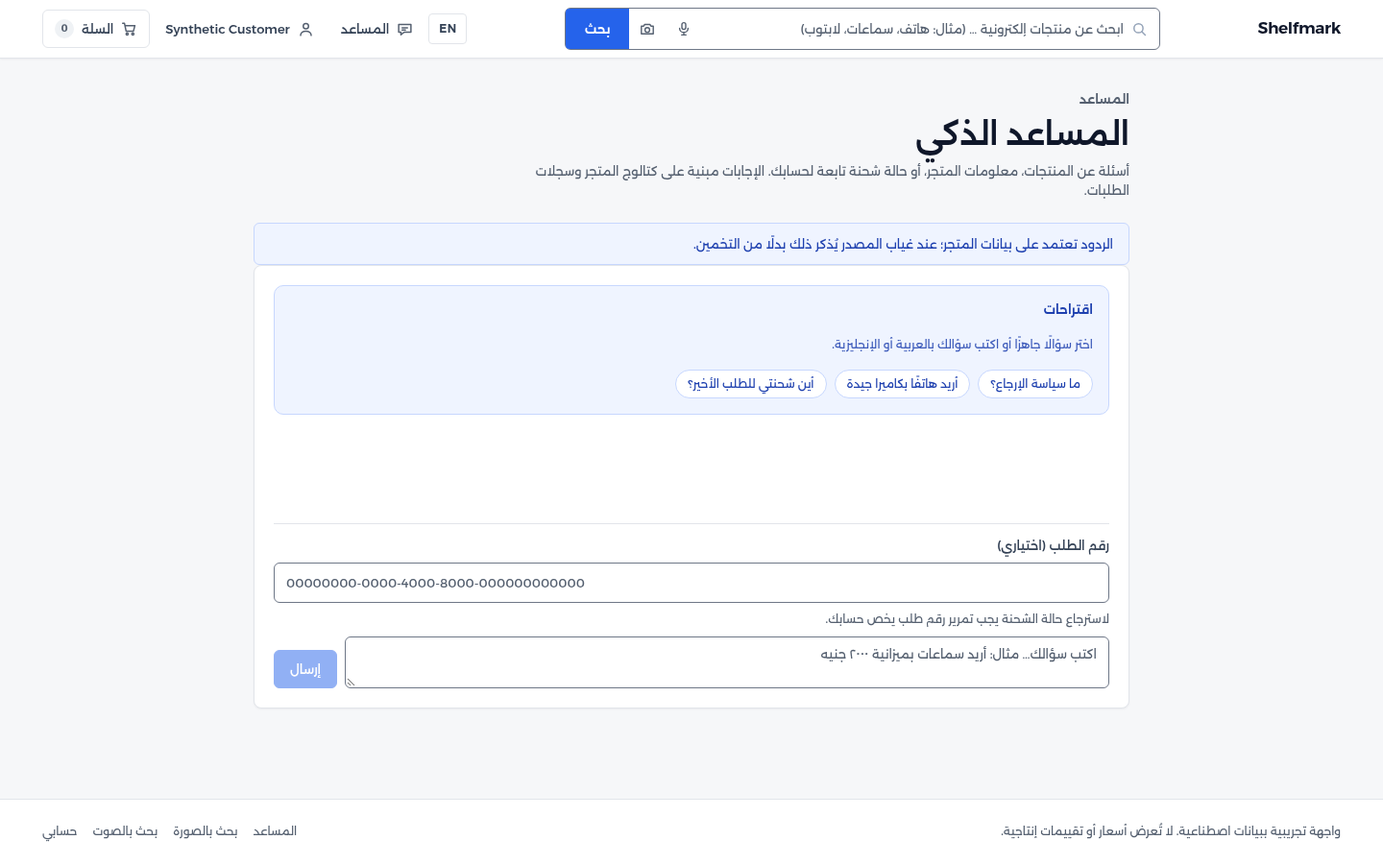
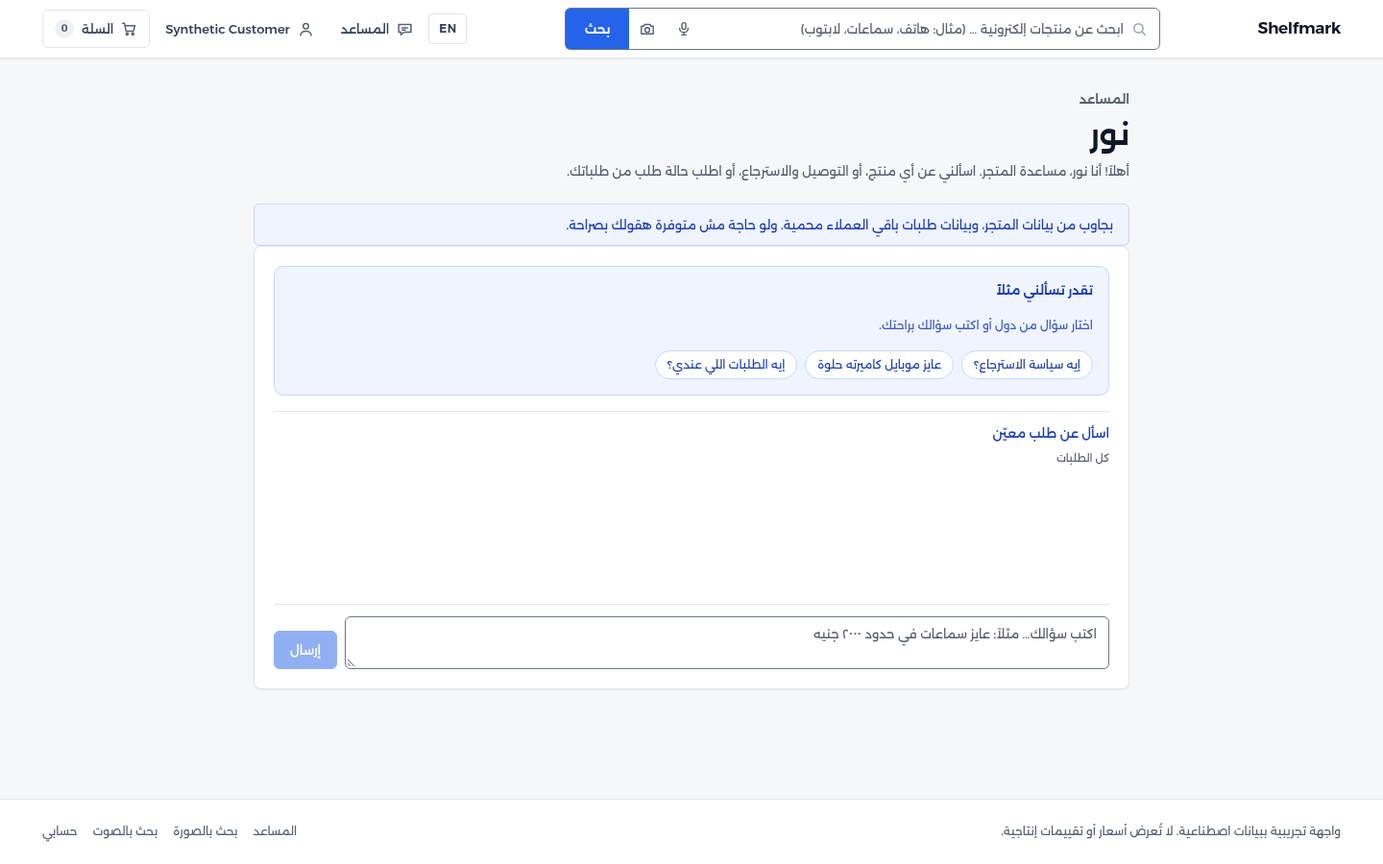
Recapture the deck screens and stop claiming the provider is unproven
Five documents still said the AI provider had never been exercised live. The
assistant now runs against OpenRouter with deepseek/deepseek-v4.1-flash, and the
surfaces around it changed, so the evidence and the prose are refreshed together.

- Recapture all 31 deck screens from a freshly seeded isolated stack (0 drift,
  30.8 s, the same two intentional console errors). The runner needed no
  selector changes; 25 screens differ, the 6 unchanged ones render no catalog
  card or assistant surface.
- Record the run in the rehearsal log, including the MongoDB pin moving to 8.2
  and the isolated-stack reproduction steps.
- Reconcile README, progress, the test report, the deck and the user manual:
  the assistant is proven live; voice transcription is still injected-provider
  only because no real speech sample has been run through it.
- Document the new behaviour that made it into this cycle: conversation memory,
  order attachment, seeded tracking, and the catalog specs.
- Describe OpenRouter as the default provider in the setup guide, matching the
  `.env.example` defaults.

diff --git a/docs/presentation/deck.html b/docs/presentation/deck.html
@@ -572,7 +572,7 @@
     <div class="cols">
       <div>
         <ul>
-          <li><strong>No live AI provider proof.</strong> The assistant and voice surfaces are verified with an injected provider; no <code>OPENAI_API_KEY</code> was available, so both return a typed 503 by design.</li>
+          <li><strong>AI provider proof is partial.</strong> The assistant is proven live through OpenRouter with <code>deepseek/deepseek-v4.1-flash</code> — grounded answers, own-order lookup, conversation memory. Voice transcription is still verified with an injected provider only: no real speech sample has been run through it.</li>
           <li><strong>Synthetic data only.</strong> Every model, dashboard, and evaluation uses synthetic or sandbox records. Nothing here is a commercial claim.</li>
           <li><strong>No cloud deployment.</strong> Docker packaging and the deployment runbook are verified; the AWS placement needs account access and has not been executed.</li>
         </ul>

diff --git a/docs/presentation/rehearsal.md b/docs/presentation/rehearsal.md
@@ -1,19 +1,26 @@
 # Demo rehearsal log
 
-Date: 2026-11-01 (re-run after the "Two instruments" UI overhaul)
+Date: 2026-11-01 (second re-run: after the assistant, catalog-spec and shipment work)
 Script: [`docs/demo-script.md`](../demo-script.md)
 Runner: `tests/accessibility/rehearsal.mjs` (Playwright + Chromium, drives the real UI)
 
-This run reconciles the runner with the overhauled markup (defects 16–17) and
-recaptures every deck screen from the current interface. The 2026-10-30 numbers
-and the defects that run found are preserved below in the drift history.
+This run recaptures every deck screen after the assistant gained conversation
+memory, order attachment and its own personality; after the catalog fixtures
+gained camera/OS/battery specs; and after the demo seed gained real shipment
+rows, so the order page now shows a tracking timeline. The runner needed no
+selector changes (0 drift): the markup it targets was untouched.
+
+Seed-baseline counts are unchanged from the previous run — 13 products, 12
+reorders, 38 classified customers, 226 browsing events, 15 purchases — so the
+screens are comparable rather than merely fresh. Earlier runs and the defects
+they found are preserved below in the drift history.
 
 ## Environment
 
 | Item | Value |
 |---|---|
 | Stack | Isolated Docker Compose project `demo-rehearsal` (fresh volumes, synthetic seed applied) |
-| API | PostgreSQL 18.6 + MongoDB 8.0.34, container image `services/api` |
+| API | PostgreSQL 18.6 + MongoDB 8.2 (the pinned version; earlier runs measured 8.0.34), container image `services/api` |
 | Storefront | Next.js 16.4.3 production build, pointed at the isolated API |
 | Identities | Demo accounts from the seed: `customer@example.invalid` / `demo-customer-1`, `operator@example.invalid` / `demo-operator-1` (DEC-017) |
 | Reset | `docker compose … down -v && up -d` re-seeds the stack between attempts |
@@ -23,40 +30,43 @@ Each attempt starts from a re-seeded stack, so seed-baseline counts (12 reorders
 accumulated. New registrations would raise the segmentation baseline, so the
 demo stays on the seeded accounts.
 
-The 2026-11-01 run used the same logical stack on a host where the Docker bridge
-network is unavailable: PostgreSQL and MongoDB ran as host-network containers,
-the API and the production storefront as host processes. The application is
-identical; only the process/network placement differs.
+The first 2026-11-01 run used this same logical stack on a host where the Docker
+bridge network was unavailable: PostgreSQL and MongoDB ran as host-network
+containers, the API and the production storefront as host processes. The
+application is identical; only the process/network placement differs. This
+re-run used the ordinary isolated compose project. The API container loads the
+repo-root `.env`, so the assistant steps run against the live provider
+(OpenRouter + `deepseek/deepseek-v4.1-flash`).
 
 ## Result
 
-**0 drift, 31 captured screens, 26.4 s of automated interaction** (a narrated
+**0 drift, 31 captured screens, 30.8 s of automated interaction** (a narrated
 presentation of the same script runs about 12 minutes).
 
 | Step | Seconds | Observed |
 |---|---|---|
-| 0. Demo sign-in — ID-01 | 1.3 | Customer signed in at `/login` → `/account`; operator at `/backoffice/login` → `/backoffice`; both sessions present at once |
-| 0b. Password rotation — COM-10 | 1.0 | Changed with the current password; the old value then returned 401, the new one 200. The seeded value was restored so later steps keep working |
-| 0c. Saved addresses — COM-12 | 3.0 | Created, promoted to default through the edit form, then deleted; the first address was default without being asked |
-| 1. Storefront discovery — COM-01, SF-03 | 0.9 | 13 products at page size 24; Phones + `storage 128 GB` narrowed the grid and the facets |
-| 1b. Image search — SF-03 | 0.8 | With the Phones filter, X1 Phone ranked first; a text file renamed `.png` was rejected with the reason |
-| 1c. Voice search — SF-03 | 0.4 | Microphone denial state shown, with the text-search fallback |
+| 0. Demo sign-in — ID-01 | 3.1 | Customer signed in at `/login` → `/account`; operator at `/backoffice/login` → `/backoffice`; both sessions present at once |
+| 0b. Password rotation — COM-10 | 1.4 | Changed with the current password; the old value then returned 401, the new one 200. The seeded value was restored so later steps keep working |
+| 0c. Saved addresses — COM-12 | 3.2 | Created, promoted to default through the edit form, then deleted; the first address was default without being asked |
+| 1. Storefront discovery — COM-01, SF-03 | 1.2 | 13 products at page size 24; Phones + `storage 128 GB` narrowed the grid and the facets |
+| 1b. Image search — SF-03 | 0.9 | With the Phones filter, X1 Phone ranked first; a text file renamed `.png` was rejected with the reason |
+| 1c. Voice search — SF-03 | 0.5 | Microphone denial state shown, with the text-search fallback |
 | 2. Recommendations — SF-01 | 0.4 | `strategy: hybrid`, 226 browsing events, 15 purchased items, no seen item returned |
-| 3a. Cart + safe checkout — COM-02/03/04 | 1.0 | Order confirmed, shipment created, price snapshot 8,900 EGP |
-| 3b. High-risk checkout — BO-04 | 0.7 | Order in review, shipment correctly absent |
+| 3a. Cart + safe checkout — COM-02/03/04 | 1.2 | Order confirmed, shipment created, price snapshot 8,900 EGP |
+| 3b. High-risk checkout — BO-04 | 0.8 | Order in review, shipment correctly absent |
 | 3c. Risk review allow — BO-04 | 0.9 | Operator allow confirmed the order and created the shipment |
-| 3d. Assessment failure — BO-04 | 0.6 | `assessment_failed` routed to review, no completion |
+| 3d. Assessment failure — BO-04 | 0.8 | `assessment_failed` routed to review, no completion |
 | 3e. Model card — BO-04 | 0.3 | Threshold 0.699, recall 83.3%, FPR 7.8%, limitations listed |
-| 3f. Buy again — COM-13 | 0.3 | Reorder refilled the empty cart at the **current** price, not the checkout snapshot |
-| 3g. Operator lifecycle — COM-09 | 7.0 | `ready` → `in_transit` moved the order to `shipped`; a 100 EGP partial refund left the subtotal unchanged and appeared in the adjustment history with the operator's identity |
-| 4. Predictive inventory — BO-01 | 2.6 | 13 forecasts, 12 new reorders, 0 reused; the rerun created 0 |
-| 5a. Dynamic pricing run — BO-02 | 1.2 | 12 prices updated, 1 stale input, 0 blocked |
+| 3f. Buy again — COM-13 | 0.5 | Reorder refilled the empty cart at the **current** price, not the checkout snapshot |
+| 3g. Operator lifecycle — COM-09 | 7.2 | `ready` → `in_transit` moved the order to `shipped`; a 100 EGP partial refund left the subtotal unchanged and appeared in the adjustment history with the operator's identity |
+| 4. Predictive inventory — BO-01 | 2.9 | 13 forecasts, 12 new reorders, 0 reused; the rerun created 0 |
+| 5a. Dynamic pricing run — BO-02 | 0.5 | 12 prices updated, 1 stale input, 0 blocked |
 | 5b. Price propagation + snapshot — BO-02 | 0.6 | Storefront showed 10,039.93; the earlier order still showed 8,900 |
-| 5c. Observation import + bounded rerun — BO-02 | 0.7 | 10,039.93 → 12,047.91 (+19.98%, inside the ±20% cap) |
-| 6. RFM segmentation — BO-03 | 0.7 | 38 classified, 2 without history, 6 segments, CSV export matched the filtered group |
+| 5c. Observation import + bounded rerun — BO-02 | 0.9 | 10,039.93 → 12,047.91 (+19.98%, inside the ±20% cap) |
+| 6. RFM segmentation — BO-03 | 0.8 | 38 classified, 2 without history, 6 segments, CSV export matched the filtered group |
 | 7. BI dashboards — BI-01 | 1.0 | Date/category filters recomputed; both reconciliation checks matched |
-| 8. English LTR parity | 0.7 | `lang="en" dir="ltr"` with the same capabilities and both session cookies |
-| 9. Failure states | 0.3 | Unknown product returns HTTP 404; the assistant shows its provider state |
+| 8. English LTR parity | 1.2 | `lang="en" dir="ltr"` with the same capabilities and both session cookies |
+| 9. Failure states | 0.5 | Unknown product returns HTTP 404; the assistant page renders its live chat, suggestion chips and order picker |
 | 10. Evidence check | 0.0 | Inventory and model evidence persisted and readable |
 
 Browser console during the final run: exactly two errors, both intentional — the
@@ -130,7 +140,8 @@ denial, product detail with the exhausted recommendation state, cart, checkout,
 confirmed order, order in review, risk queue, model card, inventory run, pricing
 run, storefront price after repricing, order price snapshot, observation import,
 pricing after import, segmentation run and filtered segment, analytics (Arabic
-and English), unknown product, the assistant surface, the password-change
+and English), unknown product, the live assistant surface (chat, suggestion
+chips and order picker), the password-change
 confirmation, the address book, buy-again, and the operator order detail with the
 refund in its adjustment history.
 
@@ -148,5 +159,15 @@ npm run verify-deck     # checks the deck layout at 1440 / 960 / 700
 `rehearse.mjs` needs `DEMO_UI` and `DEMO_API` if the stack is not on the default
 ports. Point `DEMO_SHOTS` at a scratch directory first: the runner overwrites the
 committed assets, so compare the new captures before copying them in. The run
-recorded above used an isolated compose project seeded by the migration runner,
-with the API on 18040 and the storefront on 3100.
+recorded above used an isolated compose project (`-p demo-rehearsal`) seeded by
+the migration runner, published on the default ports 3000 and 8000, with the
+repo-root `.env` supplying the live provider key. To reproduce it without
+touching your own stack, stop it, then bring the isolated one up:
+
+```bash
+docker compose -f infra/compose.yaml down
+docker compose -p demo-rehearsal -f infra/compose.yaml up -d --build
+DEMO_UI=http://127.0.0.1:3000 DEMO_API=http://127.0.0.1:8000 npm run rehearse
+docker compose -p demo-rehearsal -f infra/compose.yaml down -v
+docker compose -f infra/compose.yaml up -d
+```

diff --git a/docs/progress.md b/docs/progress.md
@@ -16,13 +16,13 @@ Last updated: 2026-11-01
 | Identity and capability boundaries | Verified for the demo harness (DEC-017) | Argon2id credentials, database-backed revocable sessions, and independent customer/operator cookies replace the fixed server-side bearer identities; customer ownership and `risk:review` scope remain enforced, and the legacy bearer path stays available for scripts. Self-service password change (COM-10) requires the current password and ends every other session of the principal while keeping the caller signed in. Production identity provider selection remains a deployment choice. |
 | Cart and retry-safe checkout | Verified | Exact EGP totals, current stock checks, immutable item snapshots, customer-scoped idempotency, and inventory consumption. |
 | Pre-completion risk flow | Verified integration; model pending | Safe, high-risk, and assessment-failure sandbox paths persist assessment before confirmation; review decisions are scoped and audited. |
-| Owned orders and shipment simulator | Verified | Customer isolation returns 404; shipments exist only after confirmation and provide bilingual events. |
+| Owned orders and shipment simulator | Verified | Customer isolation returns 404; shipments exist only from confirmation onward and provide bilingual events. The demo fixtures seed one deterministic shipment per fulfilled order (`database/relational/seeds/0002_shipment_demo.sql`), so the order timeline and the assistant's tracking answers carry real event history instead of an empty state. |
 | Browsing event capture | Verified | Authenticated, idempotent event ingestion uses stable customer/session/product IDs and provenance. |
 | SF-01 training pipeline | Verified on synthetic data | Collaborative and TF-IDF content components use browsing and purchase signals; fixed holdout evaluation records provenance and limitations. |
 | SF-01 API and evidence | Verified backend and storefront | Authenticated hybrid ranking, seen-item exclusion, popularity cold start, model/evaluation registration, and ranked-run persistence pass live integration. The trained artifact covers four products and the seeded customer has seen all four, so the product rail shows an explicit exhausted state rather than inventing a fallback. |
-| SF-02 grounded assistant | Verified orchestration and storefront; live provider pending | Bilingual FAQ, full composed catalog, and owned-shipment context feed the OpenAI Responses adapter; missing information, missing key, upstream failure, and cross-customer isolation are covered without leaking records. The storefront chat renders the provider-missing state until `OPENAI_API_KEY` exists. |
+| SF-02 grounded assistant | Verified live | Bilingual FAQ, the full composed catalog, the customer's own recent orders with their shipment state, and an explicitly attached order all feed the OpenAI Responses adapter — proven live through OpenRouter with `deepseek/deepseek-v4.1-flash`. Conversation memory, one-tap order questions, missing information, missing key, upstream failure, and cross-customer isolation are covered without leaking records; an unattached or foreign order id is answered from the customer's own records only. The storefront chat keeps a friendly provider-missing state when no key is configured. |
 | SF-03 image search | Verified synthetic backend | Validated uploads run through a PyTorch feature retriever, combine with catalog filters, register model/evaluation evidence, and pass live Docker retrieval. Synthetic swatches do not establish production visual quality. |
-| SF-03 voice search and facets | Verified orchestration and storefront; live provider pending | Recorded-audio adapter targets `gpt-transcribe`; injected transcription, dynamic context facets, combined filtering, empty speech, invalid media, and missing-key behavior pass. The storefront implements microphone-permission, recording, upload, and provider-missing states; live transcription remains pending. |
+| SF-03 voice search and facets | Verified orchestration and storefront; live transcription pending | Recorded-audio adapter targets `openai/whisper-large-v3` through the same configured gateway the assistant is proven on; injected transcription, dynamic context facets, combined filtering, empty speech, invalid media, and missing-key behavior pass. The storefront implements microphone-permission, recording, upload, and provider-missing states. Live transcription stays pending because no real speech sample has been sent through it. |
 | BO-01 predictive inventory control | Verified on labeled synthetic data | Leakage-safe lag/rolling/calendar features, final 28-day chronological holdout, recursive 14-day forecasts, DEC-008 reorder policy, persisted model/evaluation/decision evidence, idempotent supplier simulation, and recovery retry are covered in unit, database, and live Docker checks. Non-zero-demand MAPE is 3.35% on the synthetic holdout; this is not a production-quality claim. |
 | BO-02 dynamic pricing | Verified on synthetic inputs | DEC-009 calculation from recorded cost, supply, demand, competitor cost, and the dated season calendar; 20% per-run cap, cost+5% floor, 24-hour freshness gate, one-change-per-observation idempotency, immutable `price_changes` audit snapshot, storefront propagation, and order-snapshot preservation are covered in unit, route, contract, and live Docker checks. Synthetic competitor costs are not a real feed (DEC-007). |
 | BO-03 customer segmentation | Verified on synthetic order history | 40 synthetic customers and 518 deterministic orders across 400 days (cancelled, failed, partially and fully refunded, and out-of-window records); rolling 365-day eligible window, independent quintile scores with shared ties, the ordered six-segment matrix, versioned daily snapshots, insufficient-history reporting, paged filtering, and CSV export are covered in unit, route, contract, database, and live Docker checks. |
@@ -65,7 +65,7 @@ Last updated: 2026-11-01
 |---|---|---|
 | Product name | Verified | The display name is **Shelfmark** across the product/design docs, the SRS and source plan, the diagrams, the OpenAPI titles, the assistant prompt, and the presentation; academic documents carry the descriptive line "Shelfmark: An AI-Powered Smart E-Commerce Management System". Cookies, env vars, DSNs, package names, and retired mock prompts are unchanged. |
 | Demo rehearsal recapture | Verified | The runner was repaired for the "Two instruments" markup (four stale selector groups) and made self-contained (it writes its own spoofed-upload fixture). A re-run gave 0 drift, 31 screens recaptured from the current UI, 26.4 s, and the two intentional console errors. See `docs/presentation/rehearsal.md`. |
-| Live provider key path | Ready | `infra/compose.yaml` forwards `OPENAI_API_KEY` into the API container and `.env.example` documents every variable, so supplying a key enables the assistant and voice surfaces without a code change. Live proof still needs a real key. |
+| Live provider key path | Verified | The compose API service loads the repo-root `.env` directly, `.env.example` ships OpenRouter defaults (DeepSeek assistant model, Whisper transcription) with the key left blank, and `SMART_ECOMMERCE_OPENAI_BASE_URL` routes any OpenAI-compatible gateway. Live assistant proof: OpenRouter + `deepseek/deepseek-v4.1-flash`. |
 | One-command stack | Verified | `infra/compose.yaml` now builds and runs the storefront (`apps/storefront/Dockerfile`), so `docker compose up` serves the whole app on `:3000` with Docker as the only prerequisite. The README was rewritten as a beginner guide (Windows first, then Linux), and the deep commands moved to `docs/testing.md`. |
 | MongoDB pin | Verified | MongoDB moved from 8.0.34 to 8.2 because 8.0.x refuses to start on Linux kernel 6.19 through 7.0.13 (SERVER-121912) — which includes the Ubuntu 26.04 CI runner and current desktops. The validator, migrations, seeds, and all 18 schema checks pass on 8.2. Historical evaluation rows below still name 8.0.34 because that is what those runs measured. |
 | CI | Verified | `.github/workflows/ci.yml` runs the API suite, the database schema checks, and the storefront typecheck/tests/build on push and pull request; all three pass. The schema job starts the pinned MongoDB 8.2 image, which begins on the modern kernels where 8.0.x refuses to. The heavier stack-dependent gates remain manual. The actions are on current versions. |
@@ -135,7 +135,7 @@ Until those exist, keep the final demo on the local Docker stack and state the e
 ## Known limitations
 
 - The Stage 3 catalog list composes the active fixture set before filtering/pagination. It is correct for the demonstration data but requires indexed search/projection before the 100,000-product target.
-- Assistant and voice orchestration plus their storefront interfaces are implemented, but there is no live provider proof because `OPENAI_API_KEY` is unavailable; both surfaces intentionally return the provider-missing state.
+- Assistant orchestration and the storefront chat are proven live (OpenRouter + `deepseek/deepseek-v4.1-flash`). Voice transcription is still verified with an injected provider only: the endpoint is wired and configured, but no real speech sample has been run through it.
 - The storefront hero records 58.53% against the approved LTR comp while the page is Arabic-first RTL. This is an approved visual exception, not a numerical pass.
 - Storefront product plates are synthetic demonstration assets and are labeled as such in the UI.
 - Storefront caching was corrected to `no-store` for all API reads after a stale-catalog defect was found during visual verification.

diff --git a/docs/test-report.md b/docs/test-report.md
@@ -13,11 +13,11 @@ exception**, **Simulated**, **Blocked**.
 
 | Requirement | Required evidence | Result | Evidence |
 |---|---|---|---|
-| OBJ-01 | Personalized recommendations and all assistant functions work in customer journeys. | **Passed for recommendations; Simulated for assistant** | Hybrid ranking returns history-dependent, seen-item-excluded results in the live flow. The artifact covers four products and the seeded customer has seen all four, so the product rail shows the explicit exhausted state; the API run and evaluation carry the ranking evidence. Assistant orchestration, grounding, isolation, and storefront states pass with an injected provider; a real OpenAI call is blocked by a missing key. |
+| OBJ-01 | Personalized recommendations and all assistant functions work in customer journeys. | **Passed** | Hybrid ranking returns history-dependent, seen-item-excluded results in the live flow. The artifact covers four products and the seeded customer has seen all four, so the product rail shows the explicit exhausted state; the API run and evaluation carry the ranking evidence. The assistant is proven live through OpenRouter with `deepseek/deepseek-v4.1-flash` across inquiry, product selection, policy, own-order lookup, conversation memory, and order attachment, with isolation and storefront states covered by injected-provider tests. |
 | OBJ-02 | Inventory, sales/order data, and pricing operate together with the prediction components. | **Passed on synthetic data** | BO-01 forecast→reorder, BO-02 pricing→storefront price, and BO-03 RFM all read the same order/inventory records; see rows below. |
 | OBJ-03 / BI-01 | Interactive consumer-behavior and financial-performance analysis uses real application records. | **Passed on synthetic records** | `/backoffice/analytics` recomputes on date/category filters and reconciles against `order_items`. |
 | SF-01 | Collaborative and content-based recommendations use purchase and browsing history. | **Passed** | Trained hybrid artifact (nDCG@10 1.0 vs popularity 0.690465), live ranked run with browsing and purchase basis, seen-item exclusion, popularity cold start. The four-product artifact is fully seen by the seeded customer, so the storefront rail shows the exhausted state instead of a fallback. |
-| SF-02 | Inquiry response, suitable-product help, shipment tracking, and order-access isolation pass. | **Passed with declared exception** | Injected-provider tests cover inquiry, catalog grounding, own-shipment lookup, missing information, upstream failure, and cross-customer denial. Live provider call pending `OPENAI_API_KEY`. |
+| SF-02 | Inquiry response, suitable-product help, shipment tracking, and order-access isolation pass. | **Passed** | Proven live through OpenRouter with `deepseek/deepseek-v4.1-flash`: grounded product answers, return/warranty policy, own-order and shipment lookup, conversation memory, and an explicitly attached order. Injected-provider tests cover missing information, upstream failure, and cross-customer denial; a foreign or unknown order id never leaks another customer's record. |
 | SF-03 | Image search, voice search, and dynamic filtering pass individually and together. | **Passed for image search and facets; Simulated for voice** | PyTorch retrieval top-1 1.0 / recall@3 1.0 on the synthetic set; contextual facets and combined filters pass; transcription adapter verified with injected results only. |
 | BO-01 | Future-demand prediction, automatic reorder, duplicate prevention, and adequate-stock scenarios pass. | **Passed on labeled synthetic history** | 3.35% holdout MAPE; 13 forecasts, 12 reorders on the first live run, zero duplicates on rerun; adequate-stock negative case; supplier failure and recovery. |
 | BO-02 | All named pricing factors influence the defined calculation and automatic price application works. | **Passed on synthetic inputs** | Factor-controlled tests for demand, supply, competitor cost, and season; ±20% cap; cost+5% floor; stale-input block; storefront price propagation; order snapshot unchanged. |
@@ -175,16 +175,18 @@ rather than silently passing.
 |---|---|---|---|---|
 | SF-01 hybrid recommendation | Synthetic interactions | nDCG@10 vs popularity | 1.0 vs 0.690465 (+44.83%) | Synthetic interactions; no real behaviour. |
 | SF-03 image retrieval | Synthetic swatches | Top-1 / recall@3 | 1.0 / 1.0 | Deterministic perturbations only. |
-| SF-03 voice | Injected transcriptions | Behavioural only | n/a | No live transcription provider. |
+| SF-03 voice | Injected transcriptions | Behavioural only | n/a | No real speech sample has been run through the live transcription endpoint. |
 | BO-01 demand forecast | Synthetic chronology | Non-zero-demand MAPE | 3.35% | Synthetic seasonality; no real demand. |
 | BO-04 fraud | Synthetic generator | Recall / FPR | 0.833 / 0.078 | Labels come from the generator, not real payments. |
-| SF-02 assistant | Injected provider | Grounding cases | Passed | No live provider; answers not evaluated against a live model. |
+| SF-02 assistant | Live provider (OpenRouter + `deepseek/deepseek-v4.1-flash`) | Grounding cases | Passed | Live answers verified for product, policy, own-order and attached-order questions; tone and memory reviewed by hand, not scored. |
 | BI-01 analytics | Synthetic events/orders | Reconciliation | Matched | Verifies calculation, not commercial insight. |
 
 ## 6. Declared gaps
 
-1. **Live OpenAI provider** — assistant and voice transcription are verified only
-   with an injected provider. No key is available.
+1. **Live provider coverage** — the assistant is proven live through OpenRouter
+   with `deepseek/deepseek-v4.1-flash`. Voice transcription is verified only with
+   an injected provider, because no real speech sample has been sent through the
+   live transcription endpoint.
 2. **Figma deliverable** — no Figma access; the implementable screen/interaction
    specification stands in, as the plan permits.
 3. **Synthetic data only** — every model and dashboard is evaluated on synthetic

diff --git a/README.md b/README.md
@@ -171,17 +171,24 @@ docker compose -f infra/compose.yaml down
 ## Turn on the AI assistant (optional)
 
 The assistant and voice-search pages work but show a friendly "provider
-unavailable" message until you give the app an OpenAI API key. Everything else
-works without it.
+unavailable" message until you give the app a key. Everything else works without
+one.
+
+The example settings already point at OpenRouter and a cheap DeepSeek model, so
+you only need to add your own key:
 
 1. In the project folder, make your own settings file from the example.
    - **Windows (PowerShell):** `copy .env.example .env`
    - **Linux:** `cp .env.example .env`
-2. Open `.env` in a text editor (Notepad is fine) and set the key:
+2. Open `.env` in a text editor (Notepad is fine) and paste your key:
 
    ```text
-   OPENAI_API_KEY=sk-your-key-here
+   OPENAI_API_KEY=sk-or-v1-your-key-here
    ```
+
+   The variable keeps the OpenAI SDK's name whatever gateway sits behind it. To
+   use OpenAI instead, clear `SMART_ECOMMERCE_OPENAI_BASE_URL` and set OpenAI
+   model ids; any other OpenAI-compatible gateway works the same way.
 
 3. Save the file, then restart the app:
 
@@ -231,7 +238,7 @@ the **Step 4** start command again.
 | Area | Highlights |
 |---|---|
 | Customer storefront | Catalog with filters, product detail, comparison, cart, retry-safe checkout, order history, saved addresses |
-| AI shopping assistant | Answers questions, suggests products, and reports your own shipment status |
+| AI shopping assistant | Answers questions, suggests products, keeps the thread of the conversation, and can attach one of your own orders to ask about it |
 | Smart search | Photo search, voice search, and dynamic filters |
 | Predictive inventory (BO-01) | 14-day demand forecast and automatic reorder through a supplier simulator |
 | Dynamic pricing (BO-02) | Bounded price changes from supply, demand, cost, and season |
@@ -278,7 +285,10 @@ Stages 1–4 are complete and documented; Stage 5 packaging, deployment guidance
 the user manual, the demo script, and the presentation are delivered. The
 remaining work needs outside access and is stated honestly rather than implied:
 
-- No live OpenAI provider proof — set `OPENAI_API_KEY` to exercise it.
+- The assistant is proven live through OpenRouter with
+  `deepseek/deepseek-v4.1-flash` — grounded answers, own-order lookup, and
+  conversation memory. Voice transcription is still exercised with an injected
+  provider only; no real speech sample has been run through it.
 - No cloud deployment — AWS placement needs an account.
 - Accessibility is verified by automated axe-core checks; no manual
   screen-reader pass has been run.

diff --git a/docs/presentation-outline.md b/docs/presentation-outline.md
@@ -32,7 +32,7 @@ Walk the seven modules with one screenshot each and one measured number:
 | Module | Evidence to show |
 |---|---|
 | SF-01 recommendations | nDCG@10 1.0 vs 0.690 popularity baseline; exhausted-state rail when all four artifact items are seen |
-| SF-02 assistant | grounded FAQ + catalog + owned shipments; isolation proven |
+| SF-02 assistant | grounded FAQ + catalog + owned orders/shipments, conversation memory, attach-an-order questions; isolation proven; live through OpenRouter + DeepSeek |
 | SF-03 search | image retrieval 1.0 top-1; voice adapter; dynamic facets |
 | BO-01 inventory | 3.35% MAPE; 12 reorders created, 0 duplicates on rerun |
 | BO-02 pricing | ±20% cap, cost+5% floor, audit trail, storefront propagation |

diff --git a/docs/user-manual.md b/docs/user-manual.md
@@ -215,4 +215,4 @@ specific message when it is missing.
 | “Permission required” | The operator lacks the page's capability | Grant the listed capability |
 | “Dependency unavailable” (503) | A database or model artifact is missing | Check `/health/ready` and the artifact paths |
 | Empty analytics or segment page | No records in the selected range | Widen the range or run the corresponding job |
-| Assistant or voice “provider unavailable” | No `OPENAI_API_KEY` | Set the key to enable those surfaces |
+| Assistant or voice “provider unavailable” | No `OPENAI_API_KEY` | Put a key in `.env` (the example defaults to OpenRouter) and restart |
